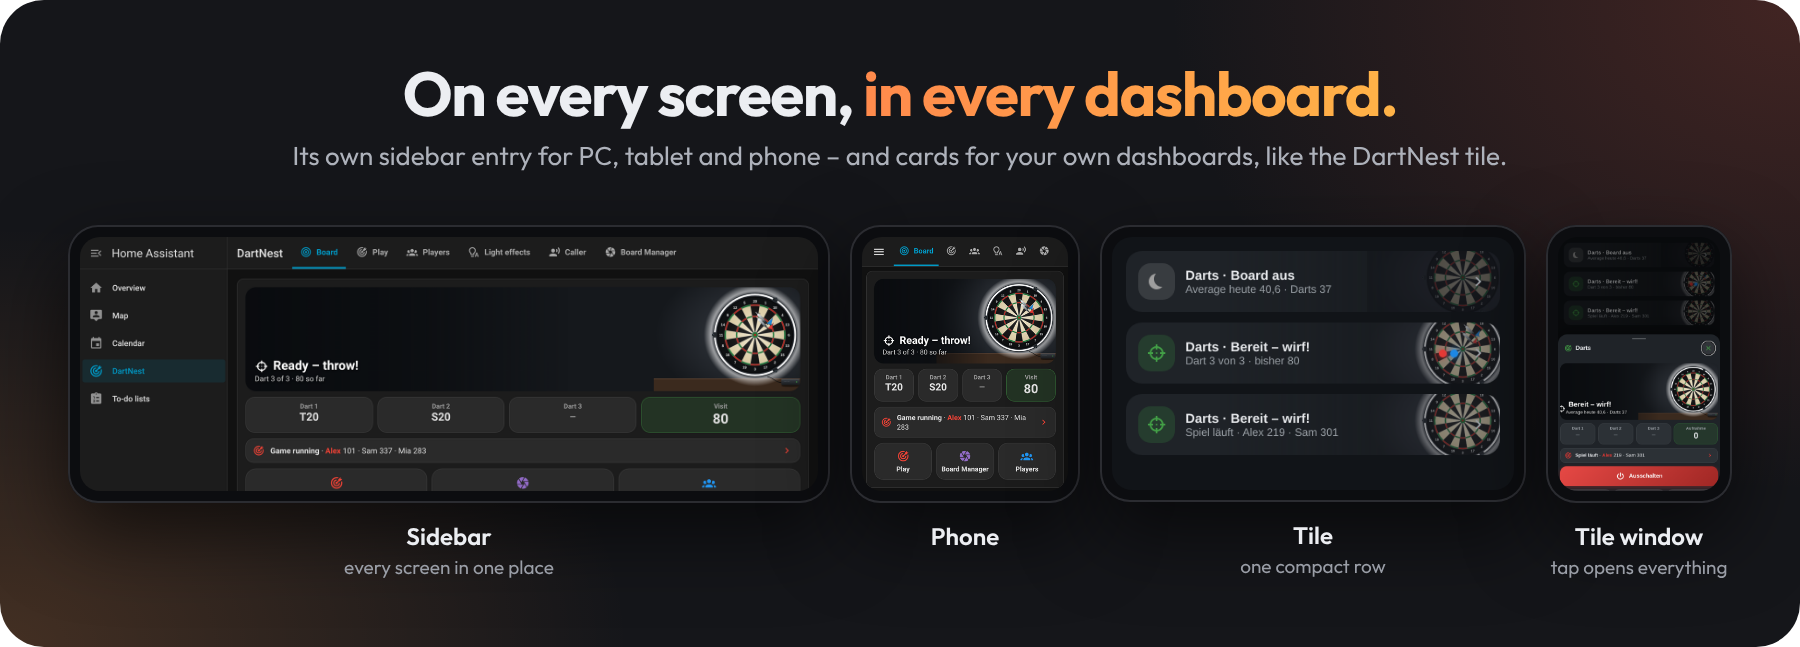
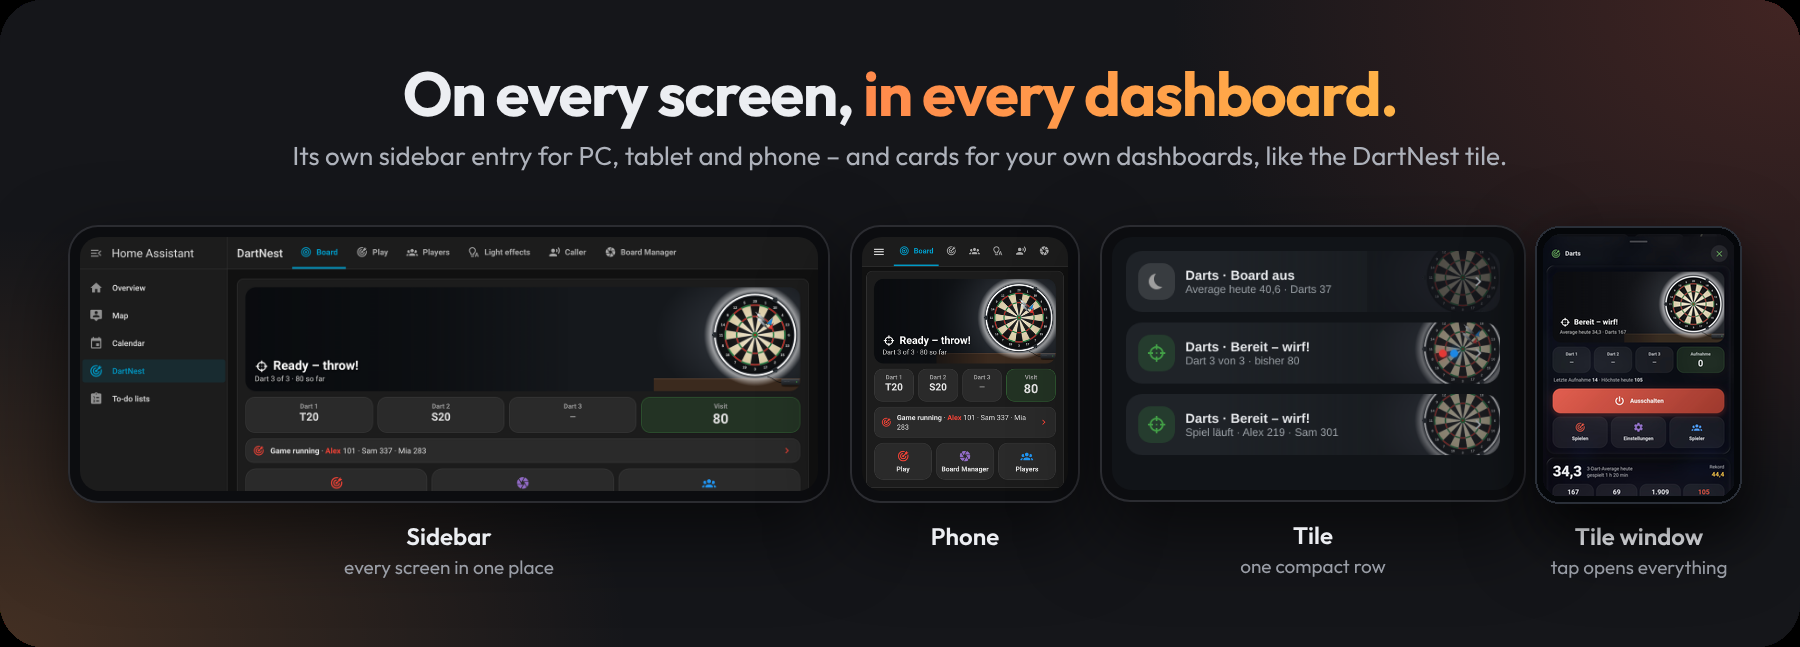
README: real screenshots for settings, Board Manager, LED clock card and tile window (#24)
Claude-Session: https://claude.ai/code/session_015s6FHPcDEM5dKaJCg1CoTH

diff --git a/README.md b/README.md
@@ -110,7 +110,7 @@ Got an **AWTRIX 3** (Ulanzi TC001) or a **PixelIt** clock? Open **DartNest → P
 
 ## Board Manager inside Home Assistant
 
-<p align="center"><img src="https://raw.githubusercontent.com/Wadim-dev/DartNest_ha/main/docs/images/manager.png" alt="Board Manager with cameras, power states and camera settings" width="900"></p>
+<p align="center"><img src="https://raw.githubusercontent.com/Wadim-dev/DartNest_ha/main/docs/images/manager.png" alt="Settings overview, Board Manager with cameras and power plug, power states and camera settings" width="900"></p>
 
 All three cameras with the calibration grid, start/stop, calibrate, camera settings and board software updates – without opening another web page. **Smart plug friendly:** pick the plug of the board PC once under *Board Manager → Board PC power plug* – every DartNest screen then has the on/off button. DartNest shows *Off* and carries on by itself when the board is back. **Light on small PCs:** live views share one image source (at most 10 images per second, only while someone watches), the camera standby is shown as *Standby* and DartNest wakes the detection by itself when a game starts.
 
@@ -118,7 +118,7 @@ All three cameras with the calibration grid, start/stop, calibrate, camera setti
 
 ## Everywhere
 
-<p align="center"><img src="https://raw.githubusercontent.com/Wadim-dev/DartNest_ha/main/docs/images/everywhere.png" alt="Sidebar on PC and phone, tile and tile window" width="900"></p>
+<p align="center"><img src="https://raw.githubusercontent.com/Wadim-dev/DartNest_ha/main/docs/images/everywhere.png" alt="Sidebar on PC and phone, tile and tile window with today's stats" width="900"></p>
 
 The same screens work on PC, tablet and phone, in English and German. Want them on your own dashboard? **Edit dashboard → Add card → search "DartNest"** – no resources to add.
 
